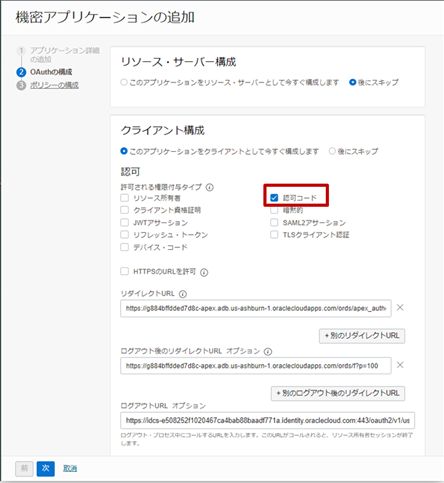
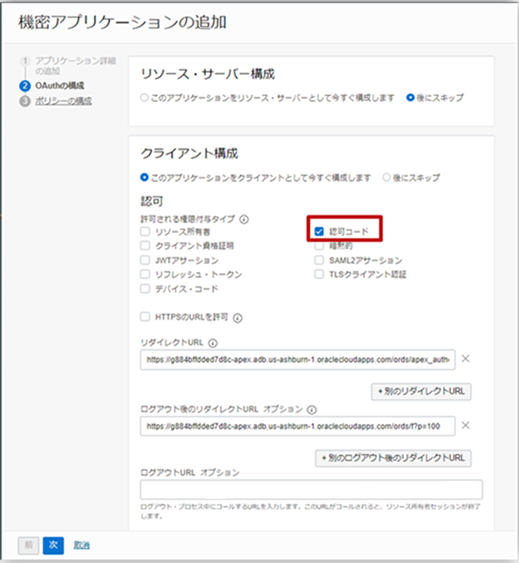
APEXで作成したアプリケーションに認証と認可のチュートリアルの手順と画面ショットの一部を変更

diff --git a/tutorials/_identity/identitydomain-apex-sso.md b/tutorials/_identity/identitydomain-apex-sso.md
@@ -125,8 +125,6 @@ OAuthの構成画面のクライアント構成にて、「このアプリケー
 その他、以下情報を入力し、「次」ボタンをクリックします。
 + **リダイレクトURL** - 対象APEXアプリURLの「fp・・」を「apex_authentication.callback」に変更したURL 例）https://g884b・・・・1051.adb.ap-tokyo-1.oraclecloudapps.com/ords/apex_authentication.callback
 + **ログアウト後のリダイレクトURL** - 対象APEXアプリのURL 例）https://g884b・・・・1051.adb.ap-tokyo-1.oraclecloudapps.com/ords/f?p=100
-+ **ログアウトURL** - <先程の手順でメモしたアイデンティティ・ドメインのURL>/oauth2/v1/userlogout 例）https://idcs-d0e4・・・・8d9.identity.oraclecloud.com:443/oauth2/v1/userlogout
-
 
  ![画面ショット17](apex-17.png)
 
